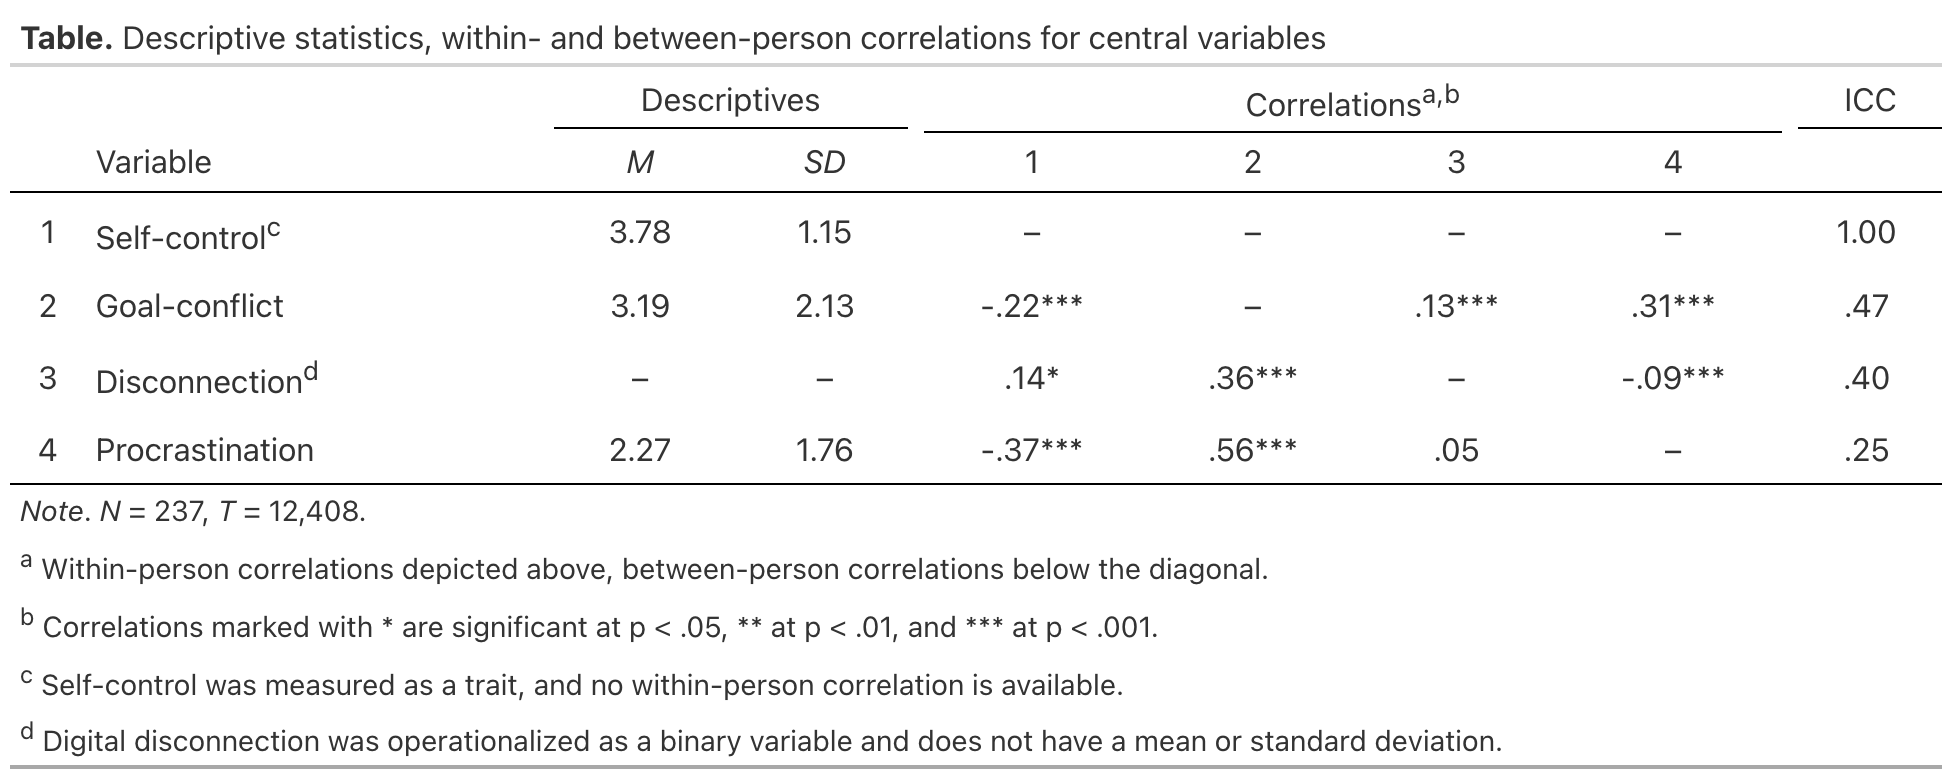
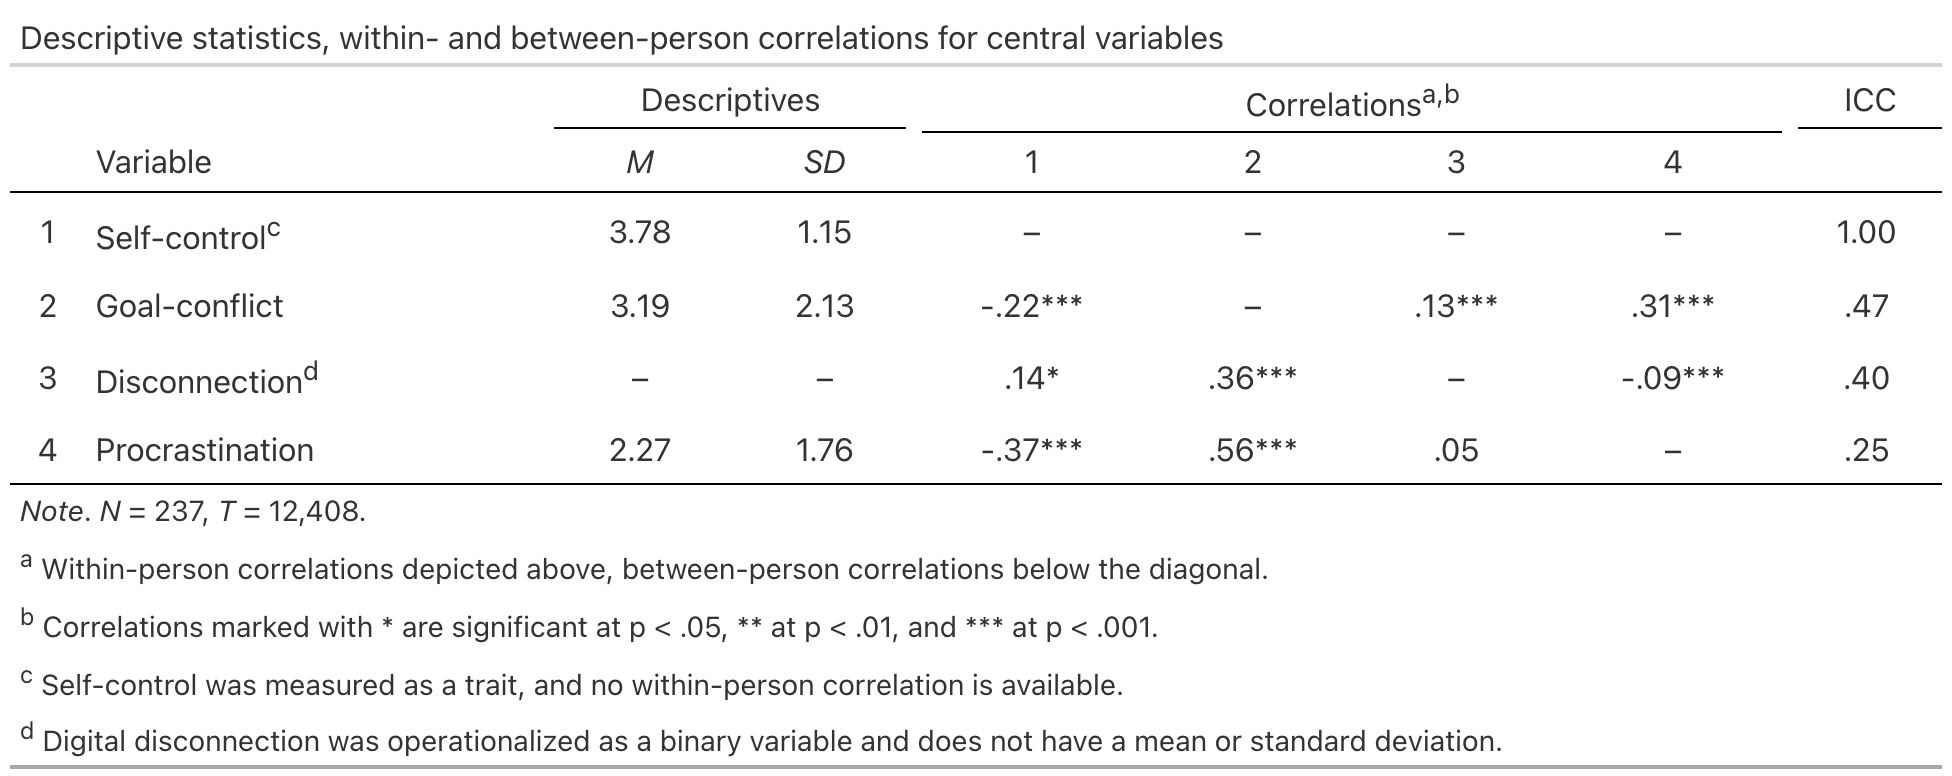
Add Codecov test coverage workflow and badge

Changed region(s): [[0.0, 0.0309, 0.6875, 0.0619], [0.8438, 0.4639, 0.875, 0.4948]]

diff --git a/README.md b/README.md
@@ -6,6 +6,8 @@
 <!-- badges: start -->
 
 [![R-CMD-check](https://github.com/felixdidi/mlstats/actions/workflows/R-CMD-check.yaml/badge.svg)](https://github.com/felixdidi/mlstats/actions/workflows/R-CMD-check.yaml)
+[![Codecov test
+coverage](https://codecov.io/gh/felixdidi/mlstats/graph/badge.svg)](https://app.codecov.io/gh/felixdidi/mlstats)
 <!-- badges: end -->
 
 The **mlstats** package provides tools for conducting multilevel
@@ -85,7 +87,7 @@ data |>
     group = "person",
     vars = vars
   )
-#> # Multilevel descriptive statistics
+#> # Multilevel Descriptive Statistics
 #>   =============== ====== ===== ===== ===== ===== ===== ===== ===== =====
 #>   variable         n_obs     m    sd range   `1`   `2`   `3`   `4`   icc
 #>   --------------- ------ ----- ----- ----- ----- ----- ----- ----- -----
@@ -97,6 +99,7 @@ data |>
 #> # ℹ Within-group correlations above, between-group correlations below the
 #> #   diagonal.
 #> # ℹ All correlations marked with a star are significant at p < .05.
+#> # ℹ Correlations estimated via variance decomposition.
 #> # ℹ Group-weighted multilevel descriptive statistics computed with mlstats.
 ```
 
@@ -137,7 +140,7 @@ data |>
     flip = TRUE,
     significance = "detailed"
   )
-#> # Multilevel descriptive statistics
+#> # Multilevel Descriptive Statistics
 #>   =============== ====== ===== ===== ===== ===== ======== ======== ========
 #>   variable         n_obs     m    sd range   `1`      `2`      `3`      `4`
 #>   --------------- ------ ----- ----- ----- ----- -------- -------- --------
@@ -151,6 +154,7 @@ data |>
 #> #   diagonal.
 #> # ℹ Correlations marked with * are significant at p < .05, ** at p < .01, and
 #> #   *** at p < .001.
+#> # ℹ Correlations estimated via variance decomposition.
 #> # ℹ Unweighted multilevel descriptive statistics computed with mlstats.
 ```
 
